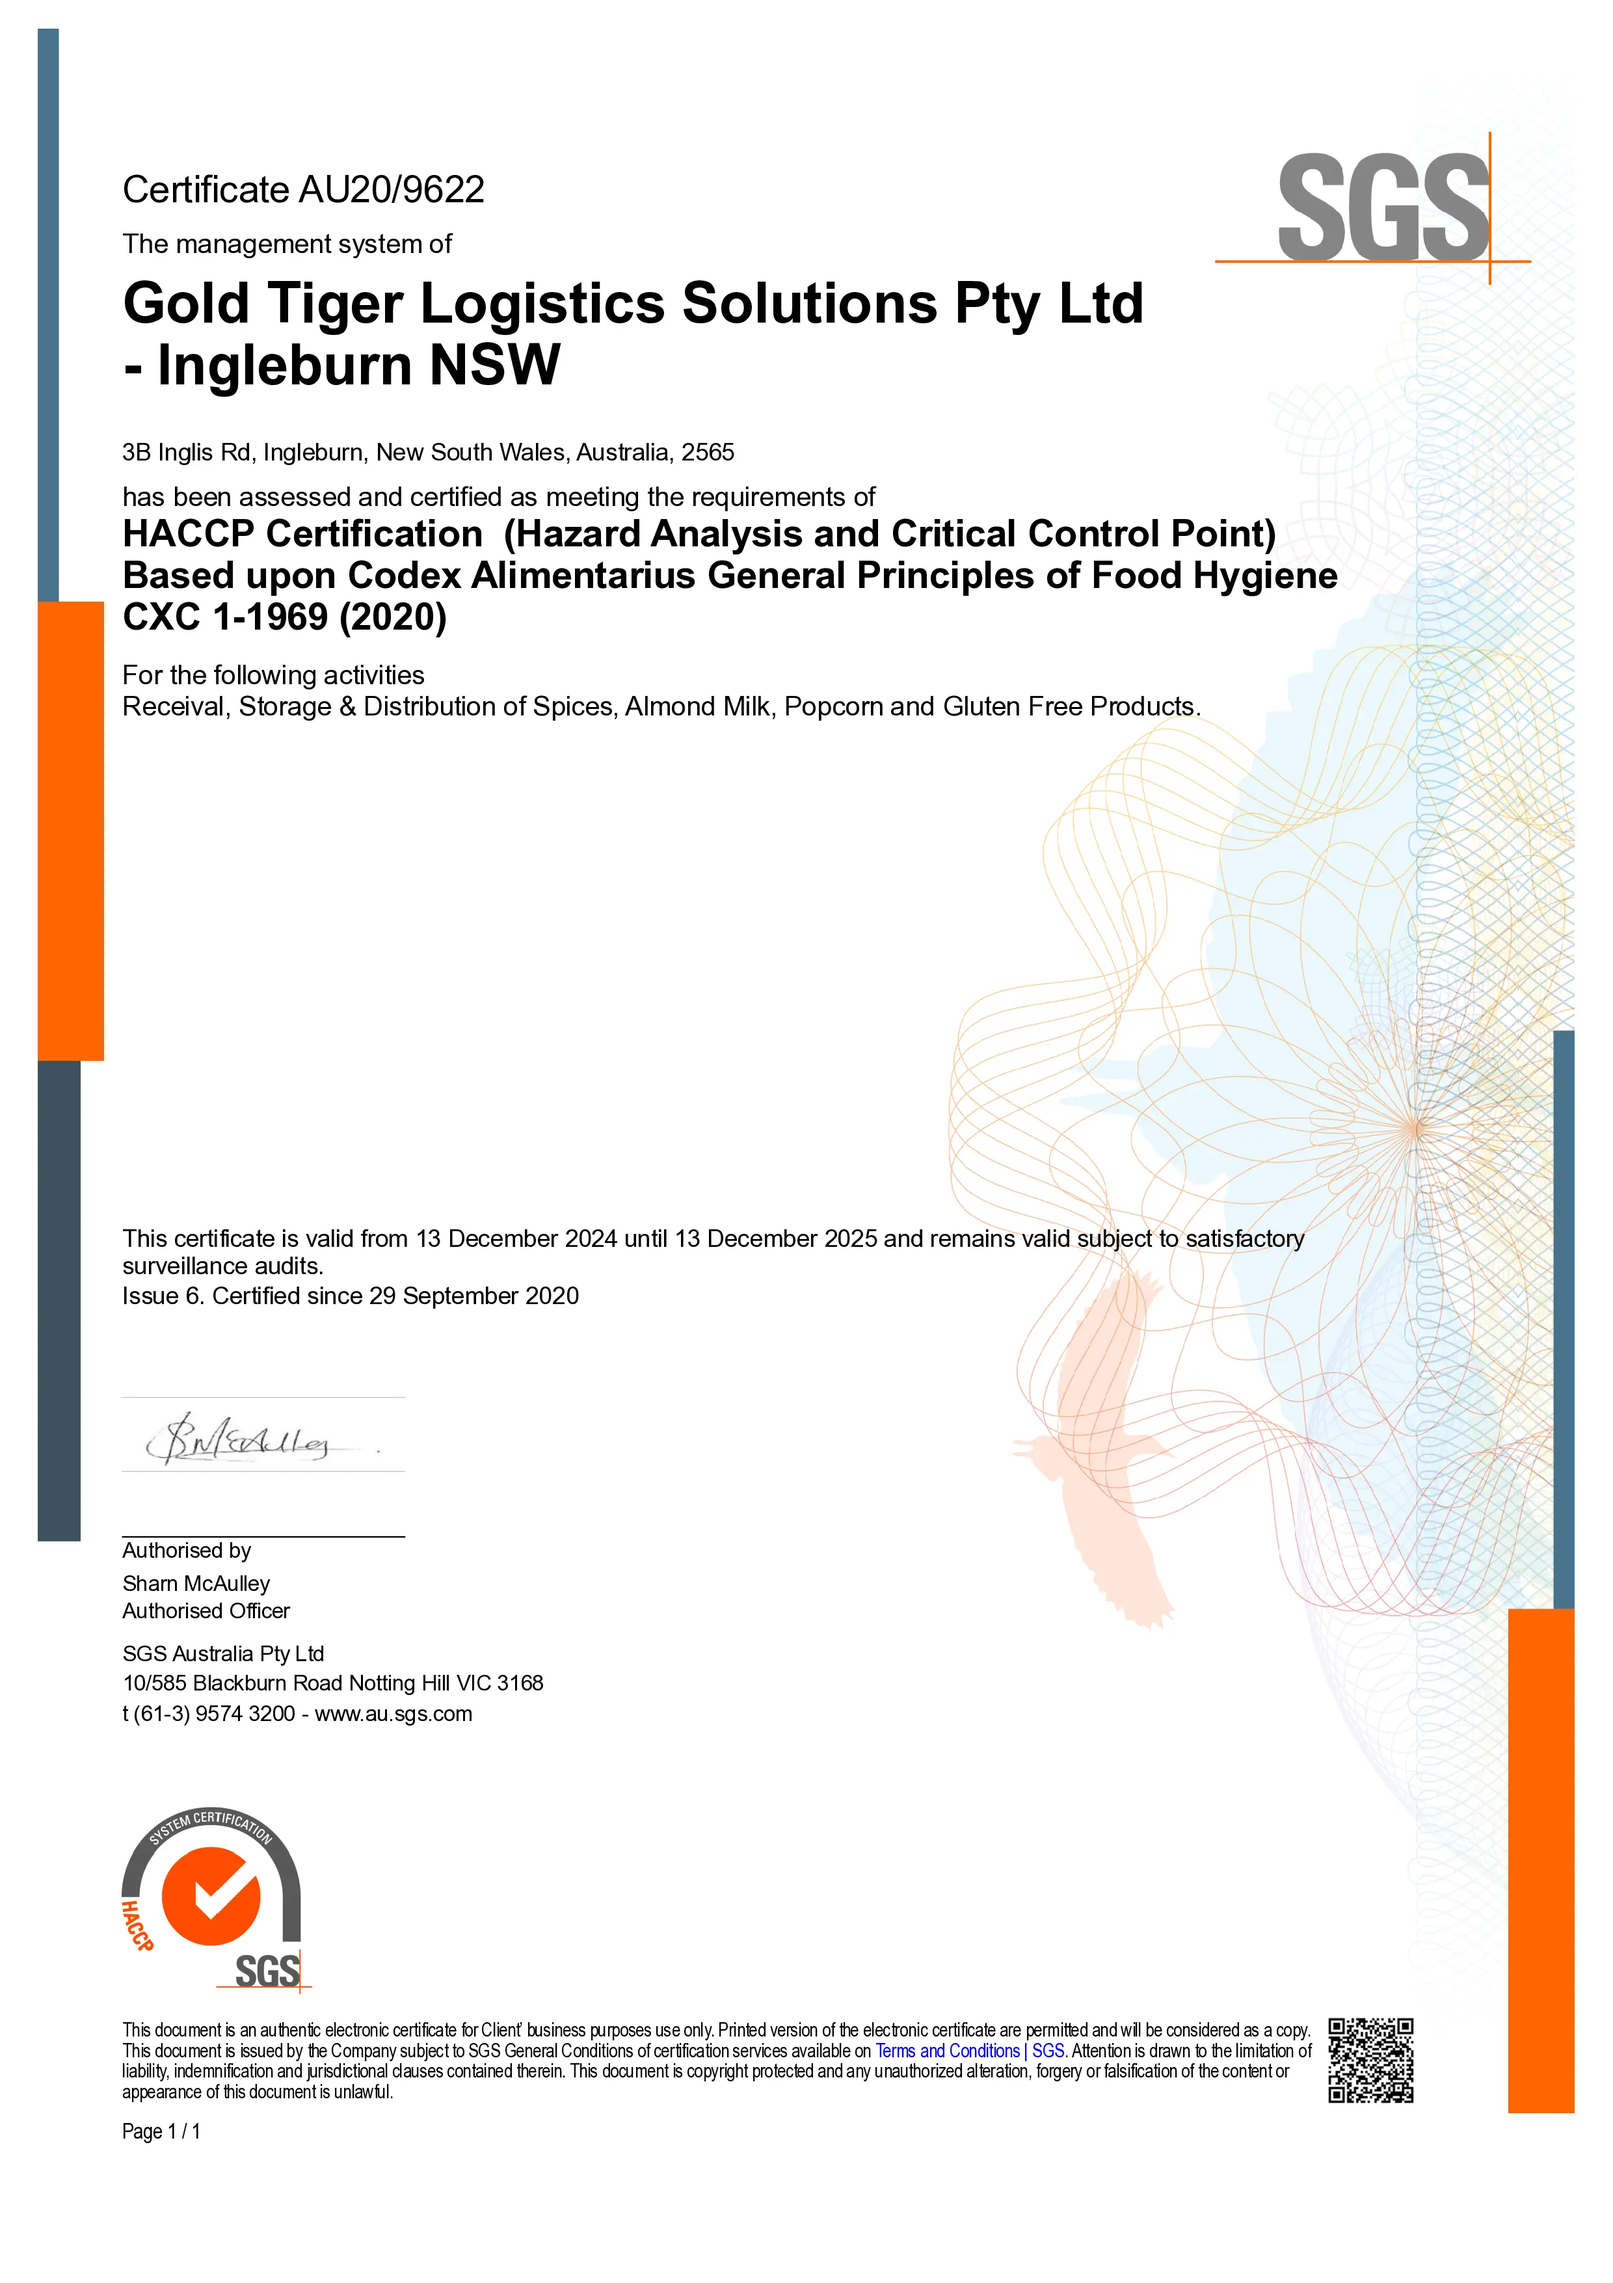
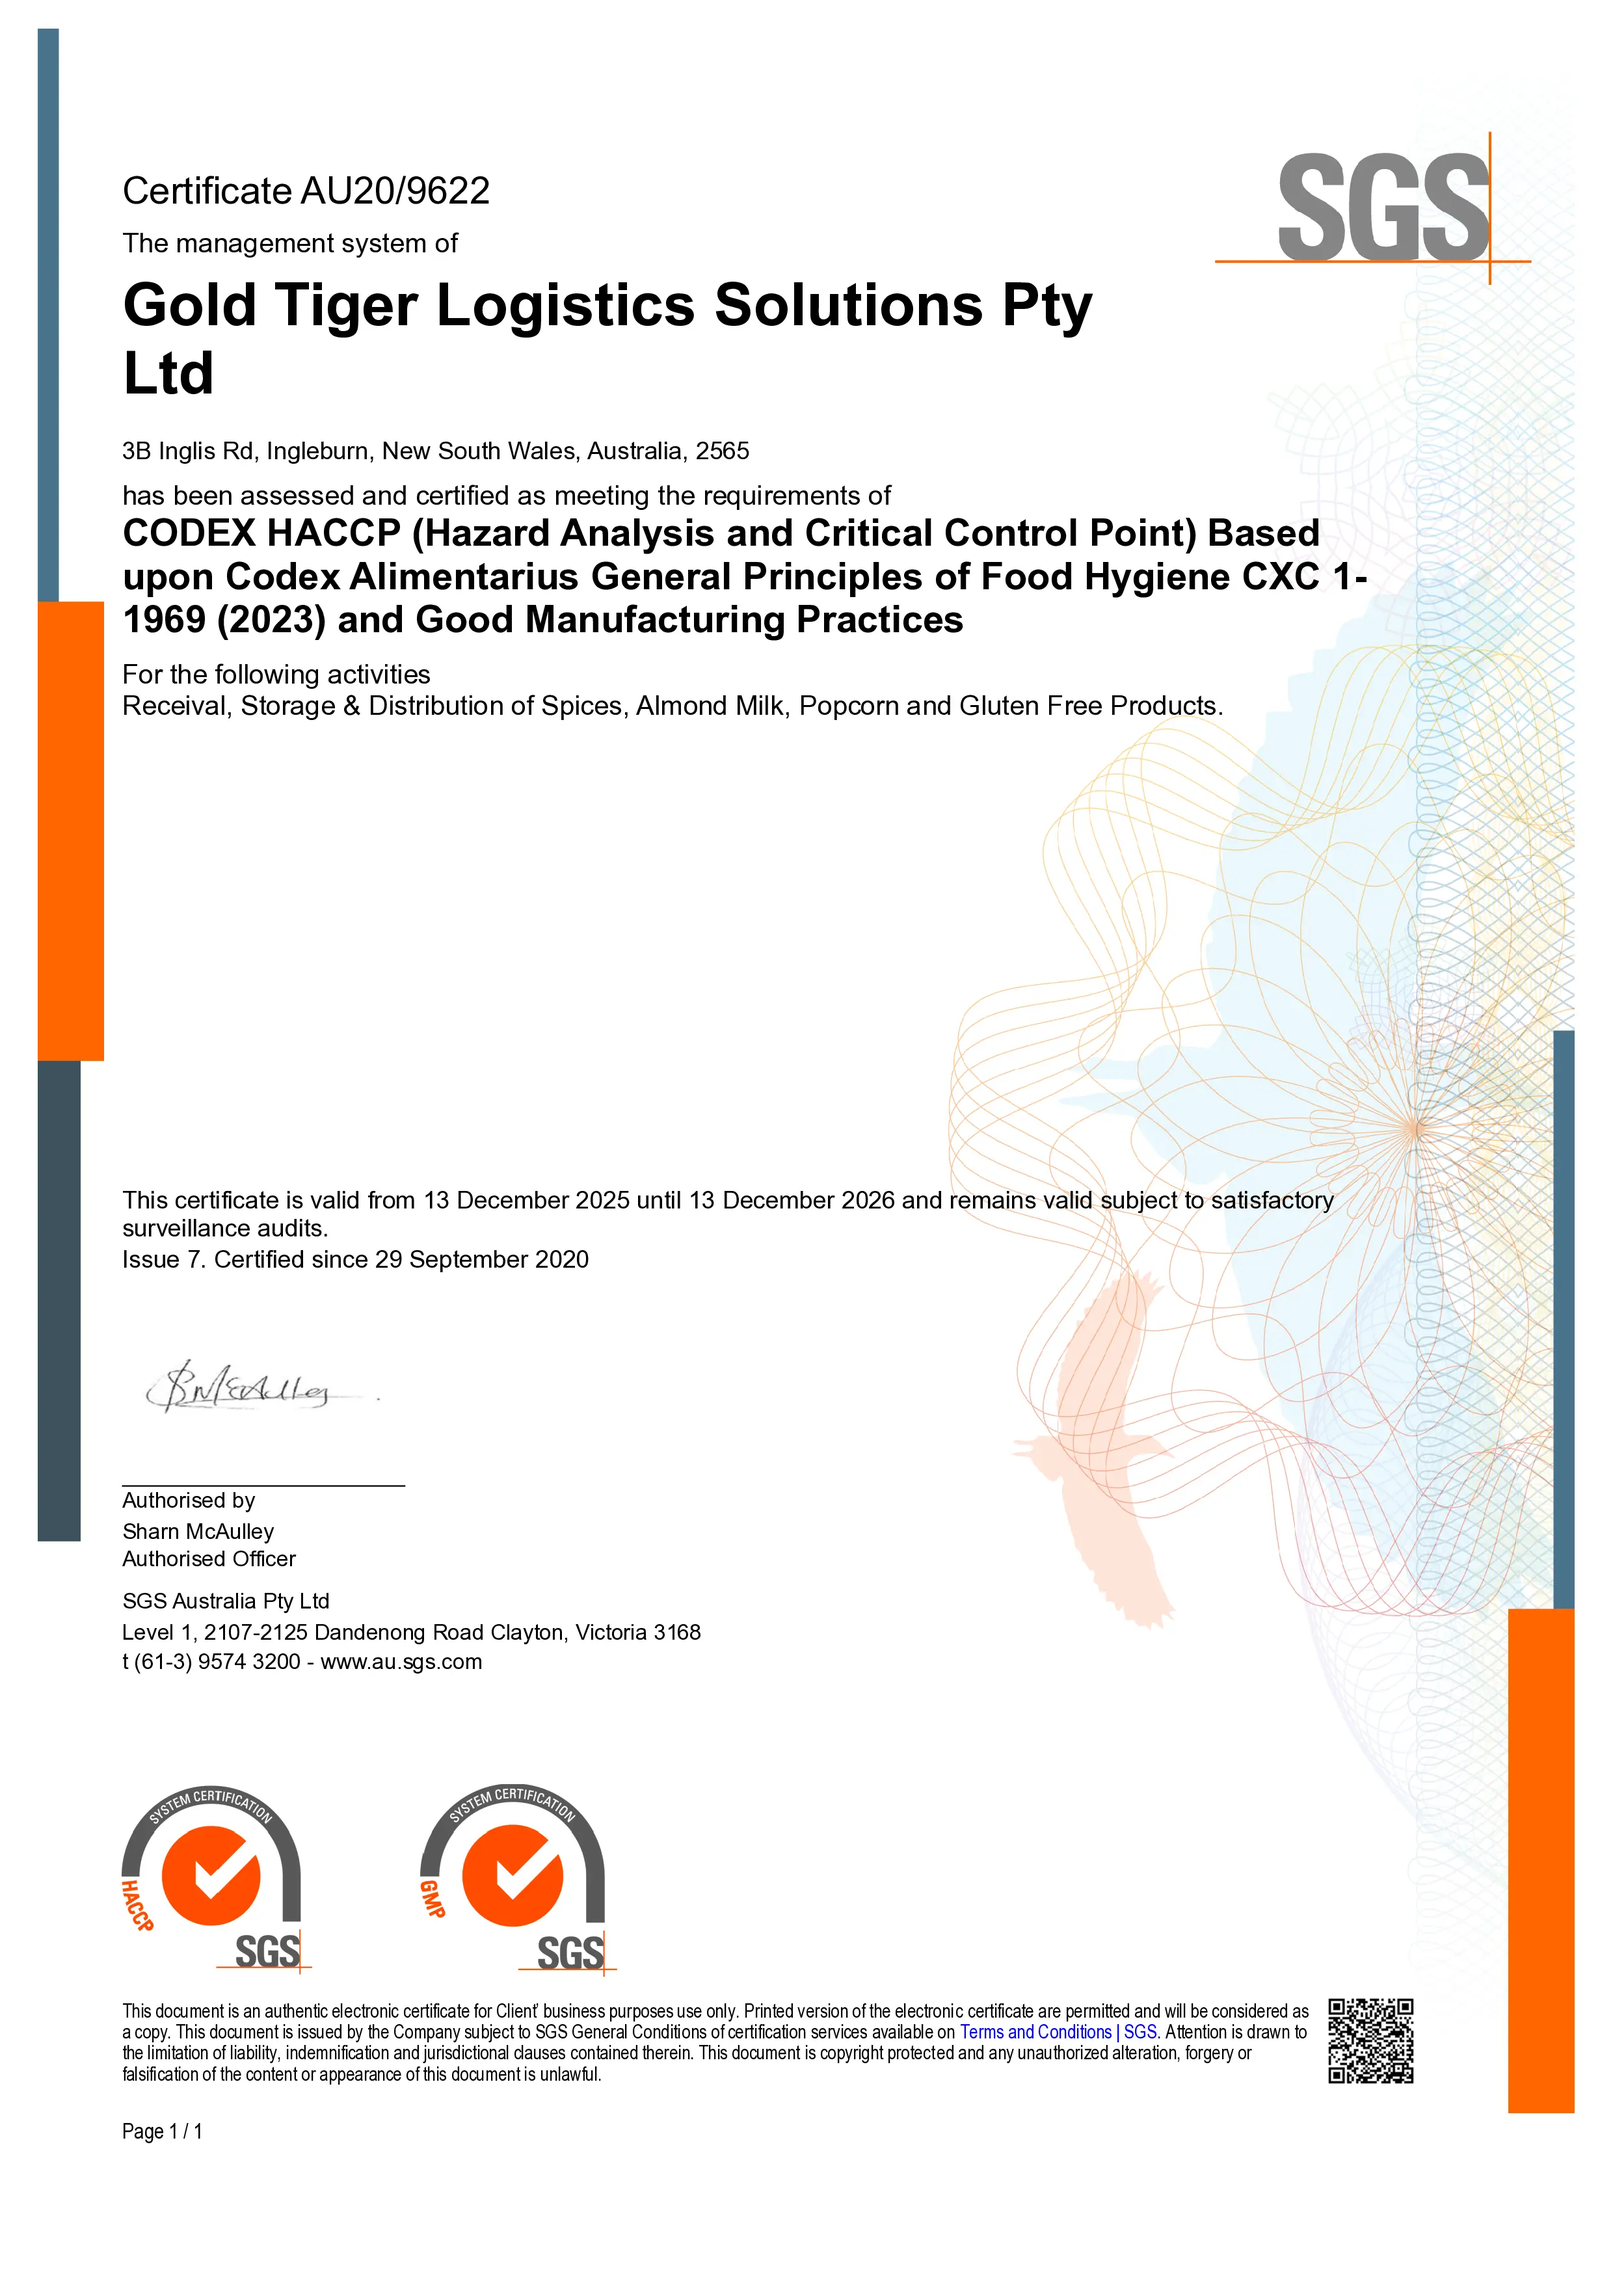
update: Update certificates for teh current year update: Updated brisbane address

diff --git a/resources/js/Pages/Component/ContactUsComp/ContactUsInfo.jsx b/resources/js/Pages/Component/ContactUsComp/ContactUsInfo.jsx
@@ -38,7 +38,8 @@ const contactInfo = {
         },
         {
             name: "BRISBANE BRANCH",
-            address: "839 Beaudesert Road ARCHERFIELD QLD 4108",
+            // address: "839 Beaudesert Road ARCHERFIELD QLD 4108",
+            address: "18–36 Prosperity Place\nPark Ridge QLD 4125",
             addressLink: "https://maps.app.goo.gl/26eN7YExv8PJrRxp9",
             phone: "07 3416 9744",
             phoneLink: "tel:+0734169744",
